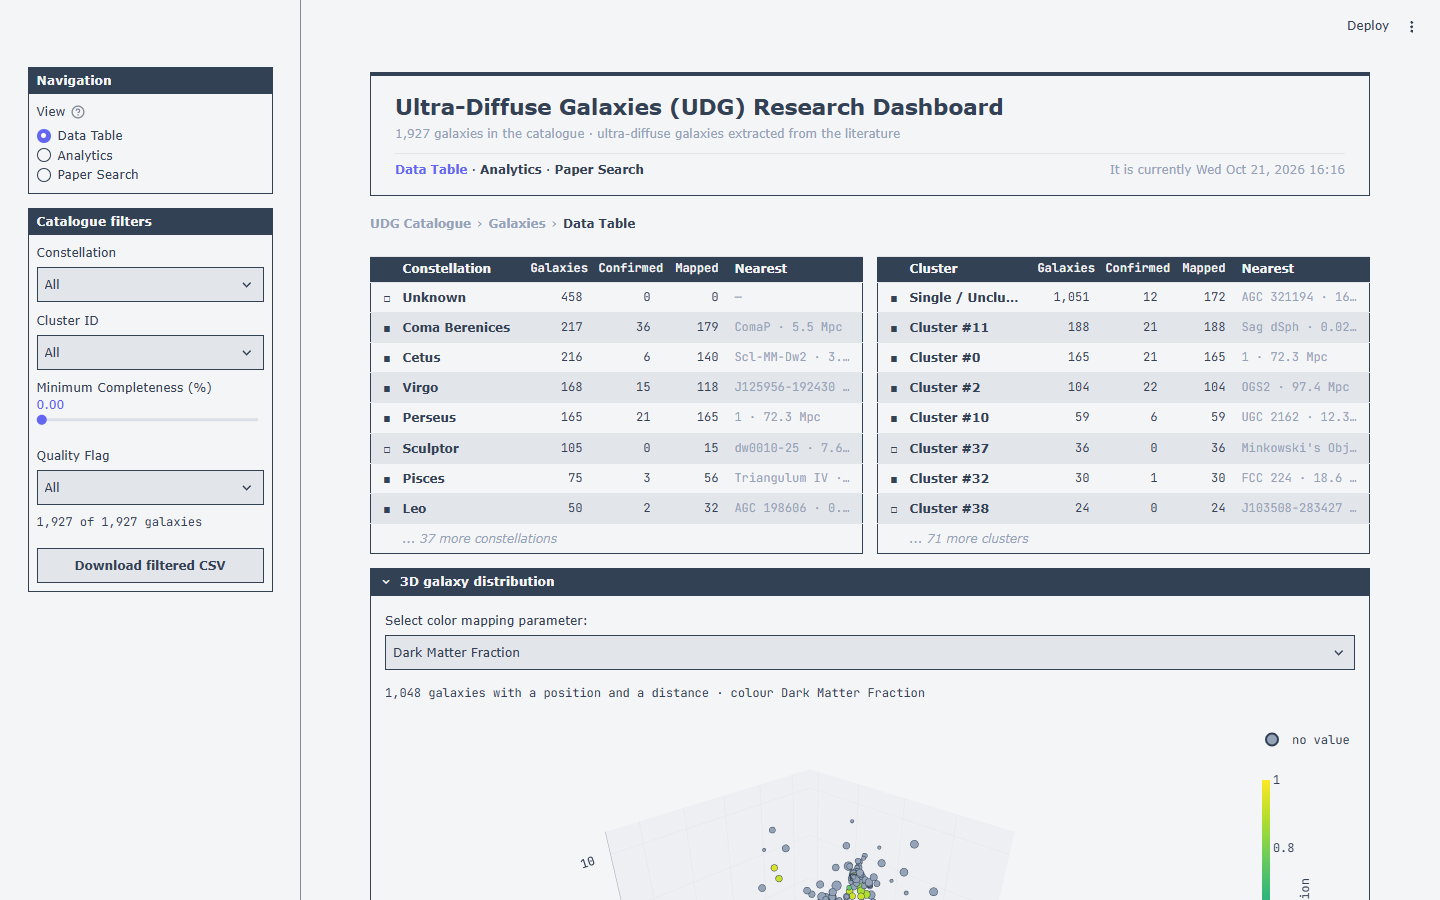
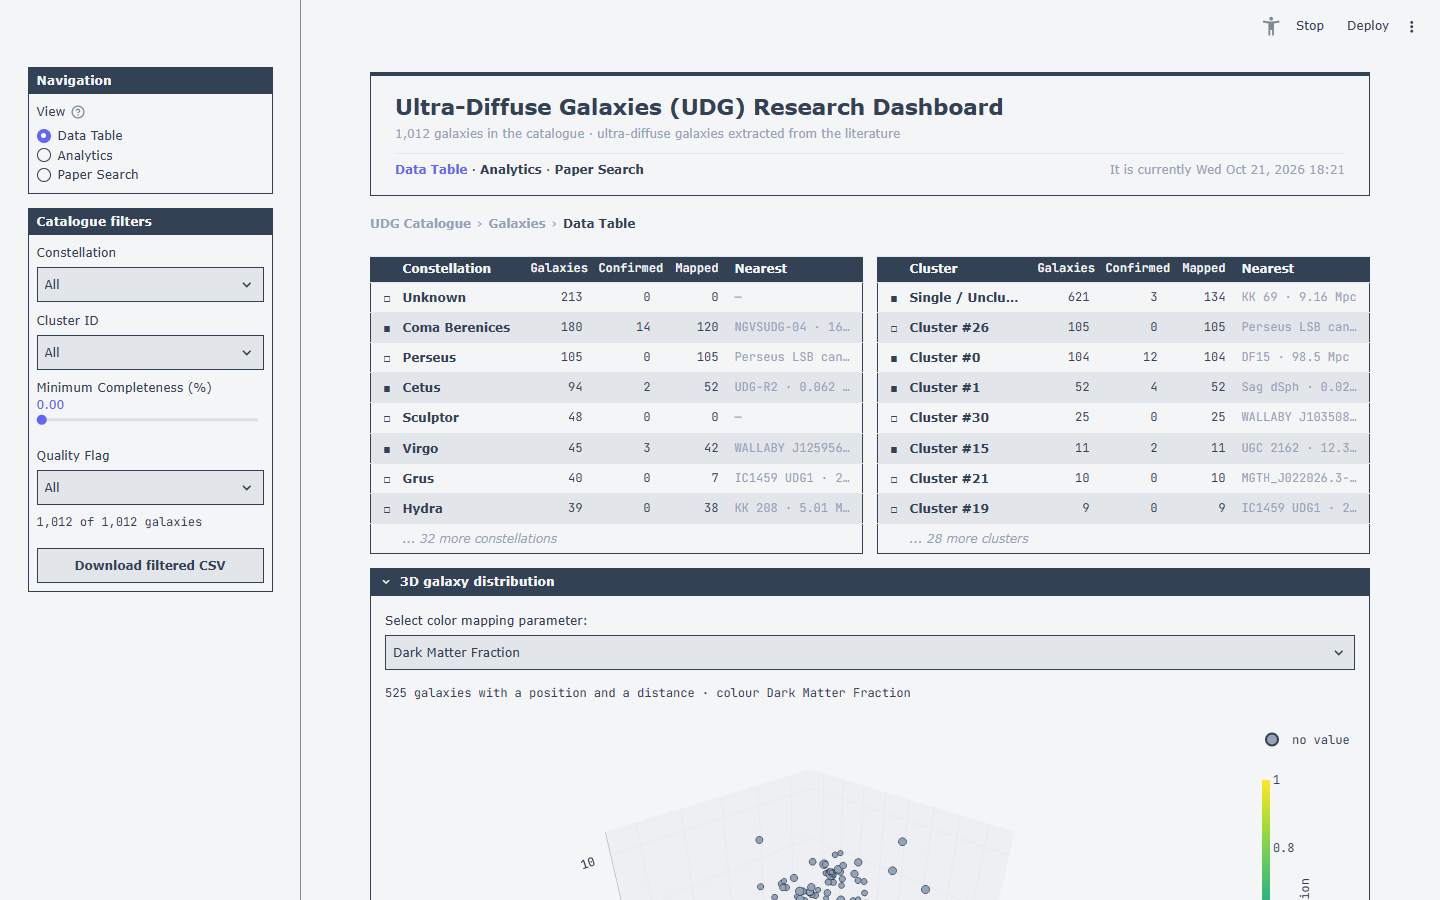
docs: retake the gallery from the rebuilt catalogue
The board index, 3D map, analytics and paper search screenshots now show
the 1,012-galaxy catalogue in the read-only dashboard at 1440x900. The
paper search inspector lists the galaxies that came from the selected
paper, now that the catalogue names its source papers, and the captions
say so.

diff --git a/README.md b/README.md
@@ -414,7 +414,7 @@ The map's radial axis is scaled as √distance so that nearby and distant galaxi
 
 ![3D Map](assets/demo.png)
 
-*The 3D map board: UDGs with known position and distance, coloured by dark-matter fraction on Viridis; a galaxy without the measure is grey, never drawn as zero. Hover over any point to see its constellation, cluster, completeness and measured parameters. The paginated data table board follows it.*
+*The 3D map board: UDGs with known position and distance, coloured by dark-matter fraction on Viridis; a galaxy without the measure is grey, never drawn as zero. Hover over any point to see its constellation, cluster, completeness and measured parameters. The paginated data table board follows it, with the papers each galaxy was merged from in `source_papers`.*
 
 ### Analytics Dashboard
 
@@ -426,7 +426,7 @@ The map's radial axis is scaled as √distance so that nearby and distant galaxi
 
 ![Paper Search](assets/interface-search.png)
 
-*The search page for `dark matter deficient`: the query bar with its parsed chips and status line, the hits as topic rows with their keyword and meaning ranks, the discovery graph of the Dragonfly survey paper with the seed in the accent colour and the papers outside the hits dimmed, and the inspector with the paper's authors, year and category. Facets and the catalogue filters are boards in the sidebar.*
+*The search page for `dark matter deficient`: the query bar with its parsed chips and status line, the hits as topic rows with their keyword and meaning ranks, the discovery graph of the Dragonfly survey paper with the seed in the accent colour and the papers outside the hits dimmed, and the inspector with the paper's authors, year and category and the catalogue galaxies that came from it: NGC 1052-DF2, DF4 and DF1, each merged across the papers that measured it. Facets and the catalogue filters are boards in the sidebar.*
 
 ---
 
